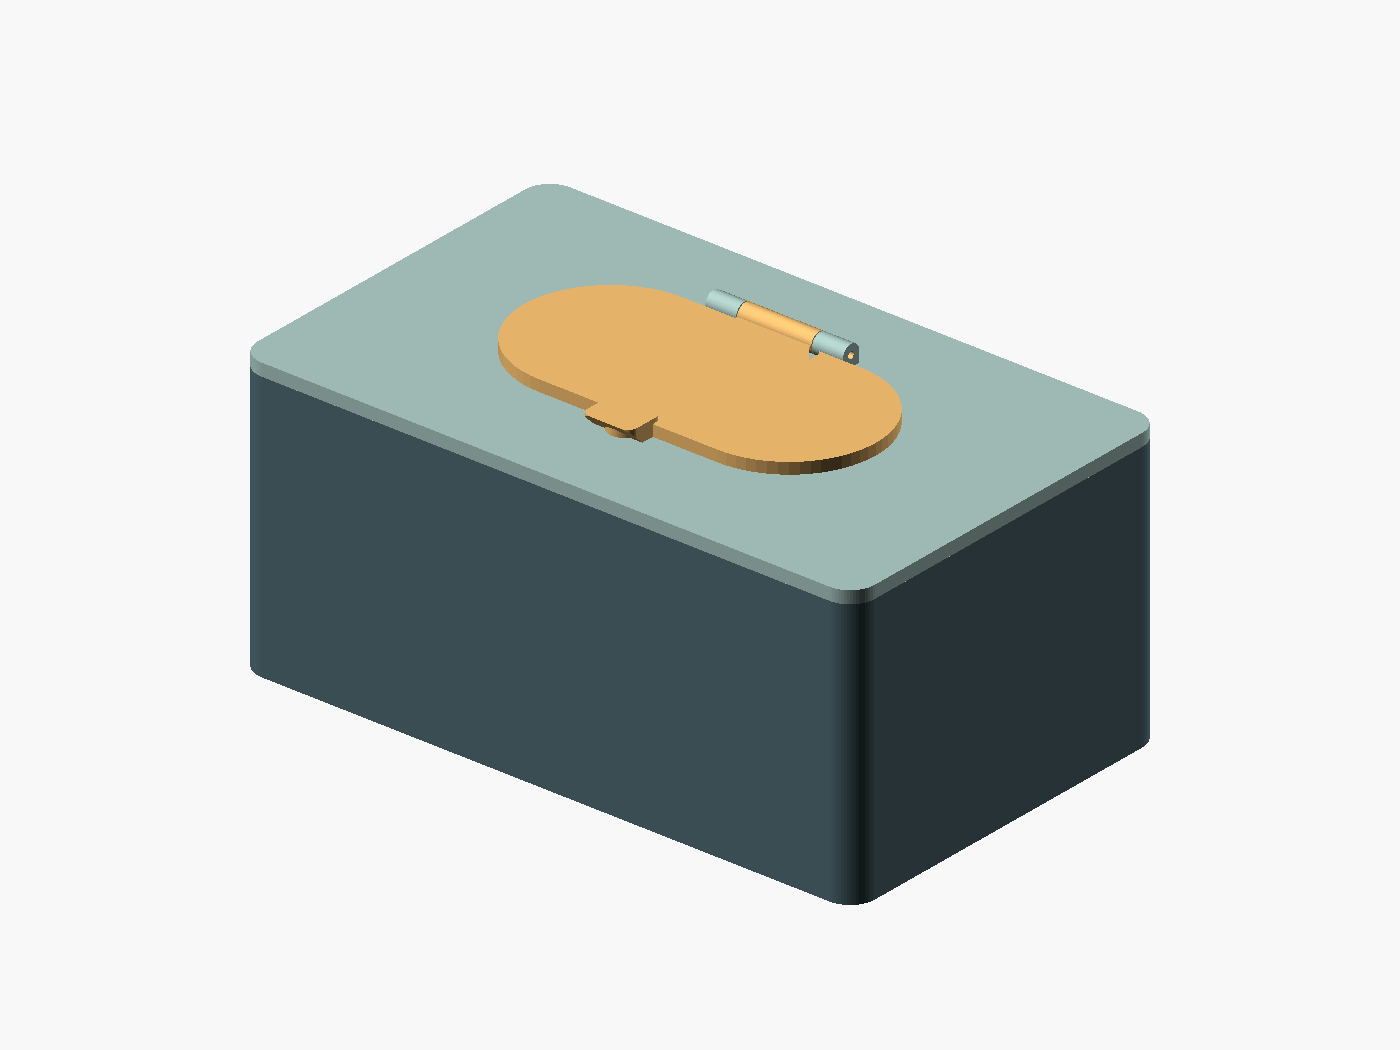
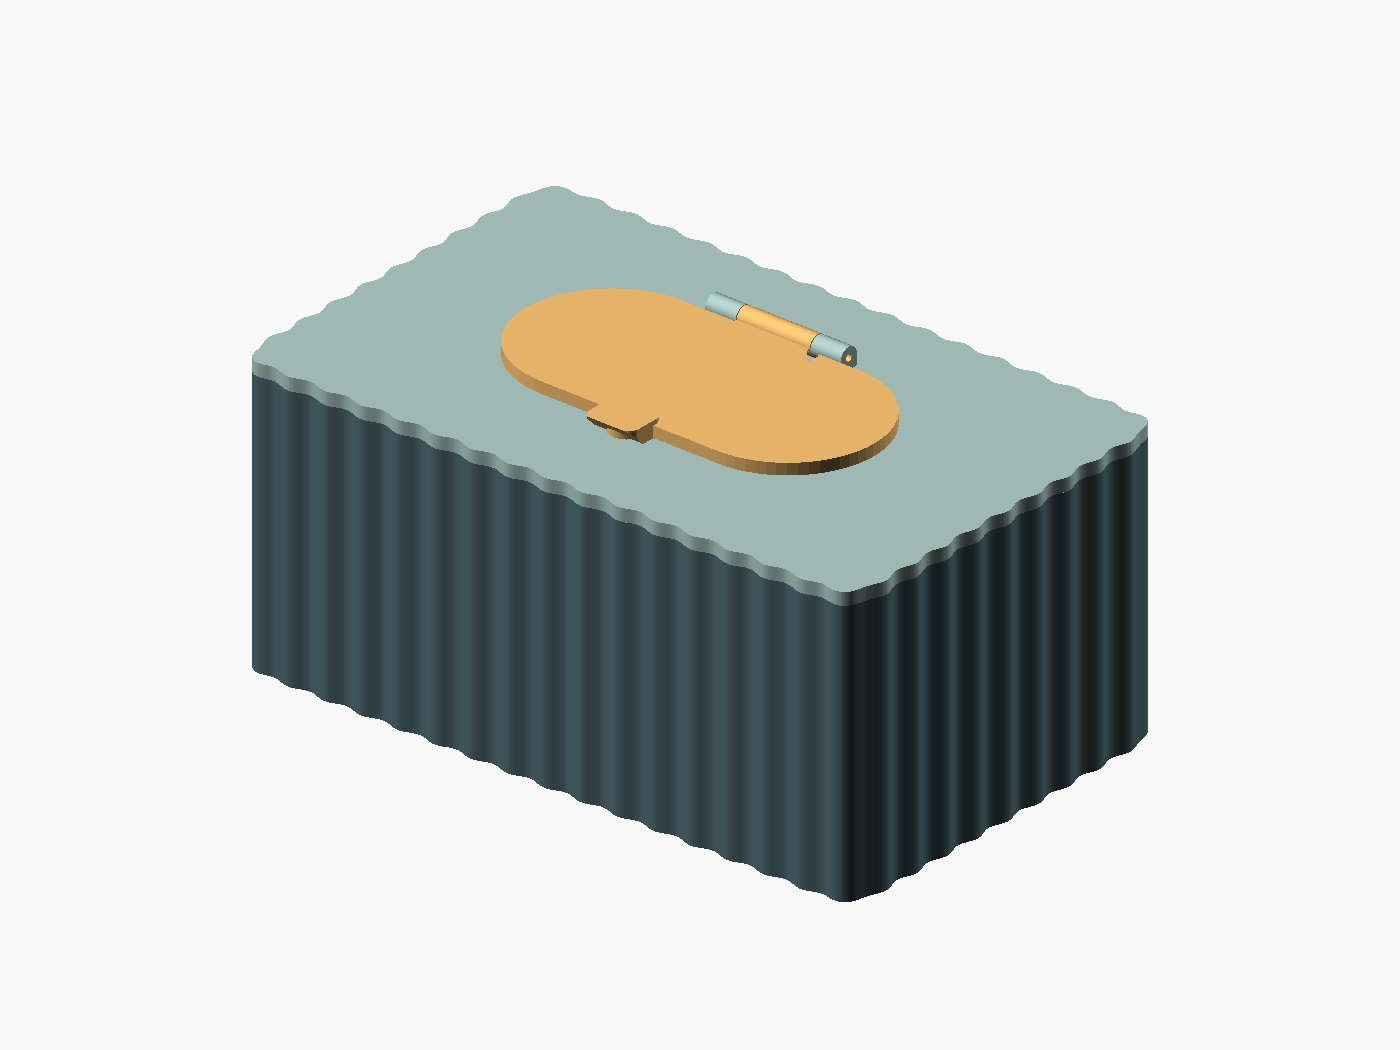
Add curved ribbed outline to V2 container and cover

diff --git a/projects/babywipesboxV2/readme.md b/projects/babywipesboxV2/readme.md
@@ -1,12 +1,27 @@
-# Baby wipes box V2 — 45° grip lip and lid seat
+# Baby wipes box V2 — ribbed outline, 45° grip lip and lid seat
 
 [babywipesboxV2.scad](babywipesboxV2.scad) is a standalone version of the
-[original baby wipes box](../babywipesbox/babywipesbox.scad), with a larger grip
-lip on the front of the small hinged lid and a matching tapered seat around
-the dispensing opening, following the
-[updated 18 October sketch](WhatsApp%20Image%202026-10-18%20at%2013.07.20.jpeg).
+[original baby wipes box](../babywipesbox/babywipesbox.scad), with a curved rib
+pattern around the container and cover, a larger grip lip on the hinged lid,
+and a matching tapered seat around the dispensing opening. It follows the
+[final 18 October sketch](WhatsApp%20Image%202026-10-18%20at%2013.31.19.jpeg).
 The [earlier grip sketch](archive/WhatsApp%20Image%202026-10-18%20at%2012.00.38.jpeg)
-is retained in `archive/`.
+and [seat sketch](archive/WhatsApp%20Image%202026-10-18%20at%2013.07.20.jpeg)
+are retained in `archive/`.
+
+The default outline has **52 smooth waves**, spaced about **12 mm** apart,
+projecting **1.5 mm outward**. They wrap around the rounded corners and run
+vertically from the first layer to the top rim. The cover uses the same
+outline, so its ribs align with the container. The original inner cavity and
+minimum wall thickness are retained.
+
+The box's measured bed-contact area increases from 23,944.74 to 24,417.21 mm²
+(about **472 mm², or 2%**). This adds contact area; the actual effect on adhesion
+and warping needs a print test. The ribs are part of the finished shape.
+
+![Closed box with matching ribs on the container and cover](preview.png)
+
+![Top view of the curved outline](outline_preview.png)
 
 The underside of the lid now has a solid tapered insert that fits into a
 **2 mm deep, 45° recess** in the cover. Both mating faces run around the entire
@@ -24,8 +39,6 @@ Its width is 16 mm with rounded corners. The original circular magnet pad
 remains beneath the lip: the bevel blends into this reinforcement rather than
 cutting through the blind magnet pocket.
 
-![Closed box with the new grip lip](preview.png)
-
 ![Close-up of the angled lip and retained magnet pad](lip_detail.png)
 
 ![Section through the closed lid and its tapered seat](seat_section.png)
@@ -35,10 +48,17 @@ the left and the grip/latch magnet pockets on the right.
 
 ## Dimensions and compatibility
 
-The container, outer cover dimensions, magnet positions, and filament hinge
-match the original SCAD model. **Print both the revised cover and lid** to use
-the tapered seat; an existing container with matching parameters can be reused.
-The default box measures 200 × 120 × 85 mm. The opening remains 106 × 48 mm
+**Print the ribbed container and cover** for the matching finish. The hinged
+lid is unchanged from the preceding V2 revision with the 45° seat and can be
+reused. Magnet positions, the filament hinge, and the tapered seat are retained.
+An earlier smooth container still fits the cover's magnet positions, although
+their outer outlines differ.
+
+The default box measures **203 × 123 × 85 mm including the ribs**. The
+`box_width` and `box_depth` settings remain 200 × 120 mm before rib projection;
+the overall width and depth each increase by `2 * rib_depth`. Interior space
+between flat walls remains 195.2 × 115.2 × 82.6 mm, with corner posts intruding
+into that space. The opening remains 106 × 48 mm
 at the top, narrowing to a 102 × 44 mm throat below the bevel. This keeps the
 latch magnet pocket enclosed by its original surrounding wall.
 
@@ -51,6 +71,8 @@ The V2 Customizer controls are:
 
 | Parameter | Default | Meaning |
 | --- | --- | --- |
+| `rib_depth` | 1.5 | Maximum outward projection, in mm; zero restores the smooth outline |
+| `rib_pitch` | 12 | Target rib spacing, in mm; adjusted to whole waves in each quarter |
 | `seat_depth` | 2 | Cover recess depth; its radial taper has the same size, in mm |
 | `seat_clearance` | 0.15 | Horizontal gap per side between mating faces at the same Z, in mm |
 | `lip_projection` | 9 | Distance beyond the front edge of the lid, in mm |
@@ -62,6 +84,11 @@ a fit test for a closer seat, or increase it if the printed lid binds. Zero
 means nominal surface contact with no printing allowance. `seat_depth` must
 leave at least 1.2 mm of straight opening below the bevel. All existing box,
 magnet, and hinge parameters remain available.
+
+The rib count adjusts with box size and `rib_pitch`; the default actual pitch
+is 12.04 mm. Opposite sides are mirrored and corners share the continuous
+pattern. Set identical rib parameters for the box and cover. The print layout
+accounts for the larger outline and keeps a 15 mm gap between parts.
 
 ## Export and assembly
 
@@ -107,6 +134,10 @@ exported meshes confirm the 45° mating profiles and 0.15 mm horizontal gap.
 Solid intersection checks between lid and cover are empty at 0.25° steps
 from 0° to 10°, then 1° steps through 180°, using the default clearance.
 A 2.5 mm seat depth with 0.25 mm clearance also renders successfully.
-Physical fit and sealing performance still need a trial print.
+The ribbed box and cover have matching outer rim vertices and verified
+203 × 123 mm bounds; the hinged lid mesh matches the preceding revision.
+The smooth-outline setting and a larger 220 × 130 mm base with 2 mm ribs at
+8 mm target spacing were also checked. Physical fit, bed adhesion, and sealing
+performance still need a trial print.
 
 Licensed under the repository's [GPL license](../../LICENSE).
